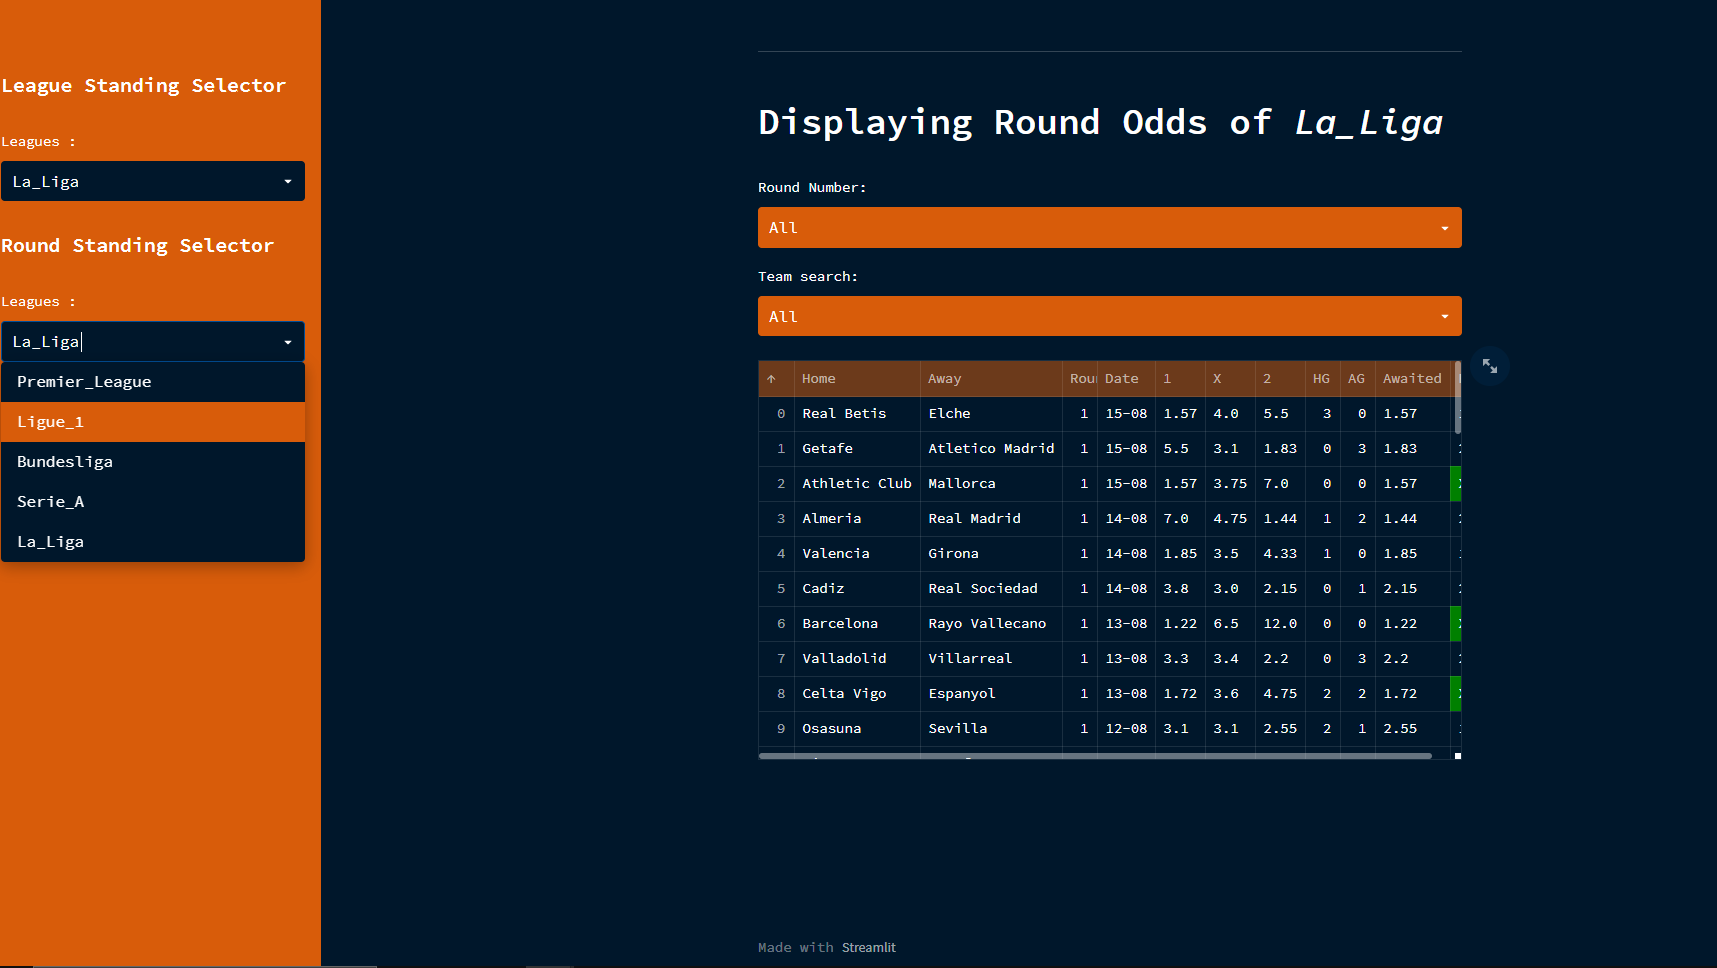
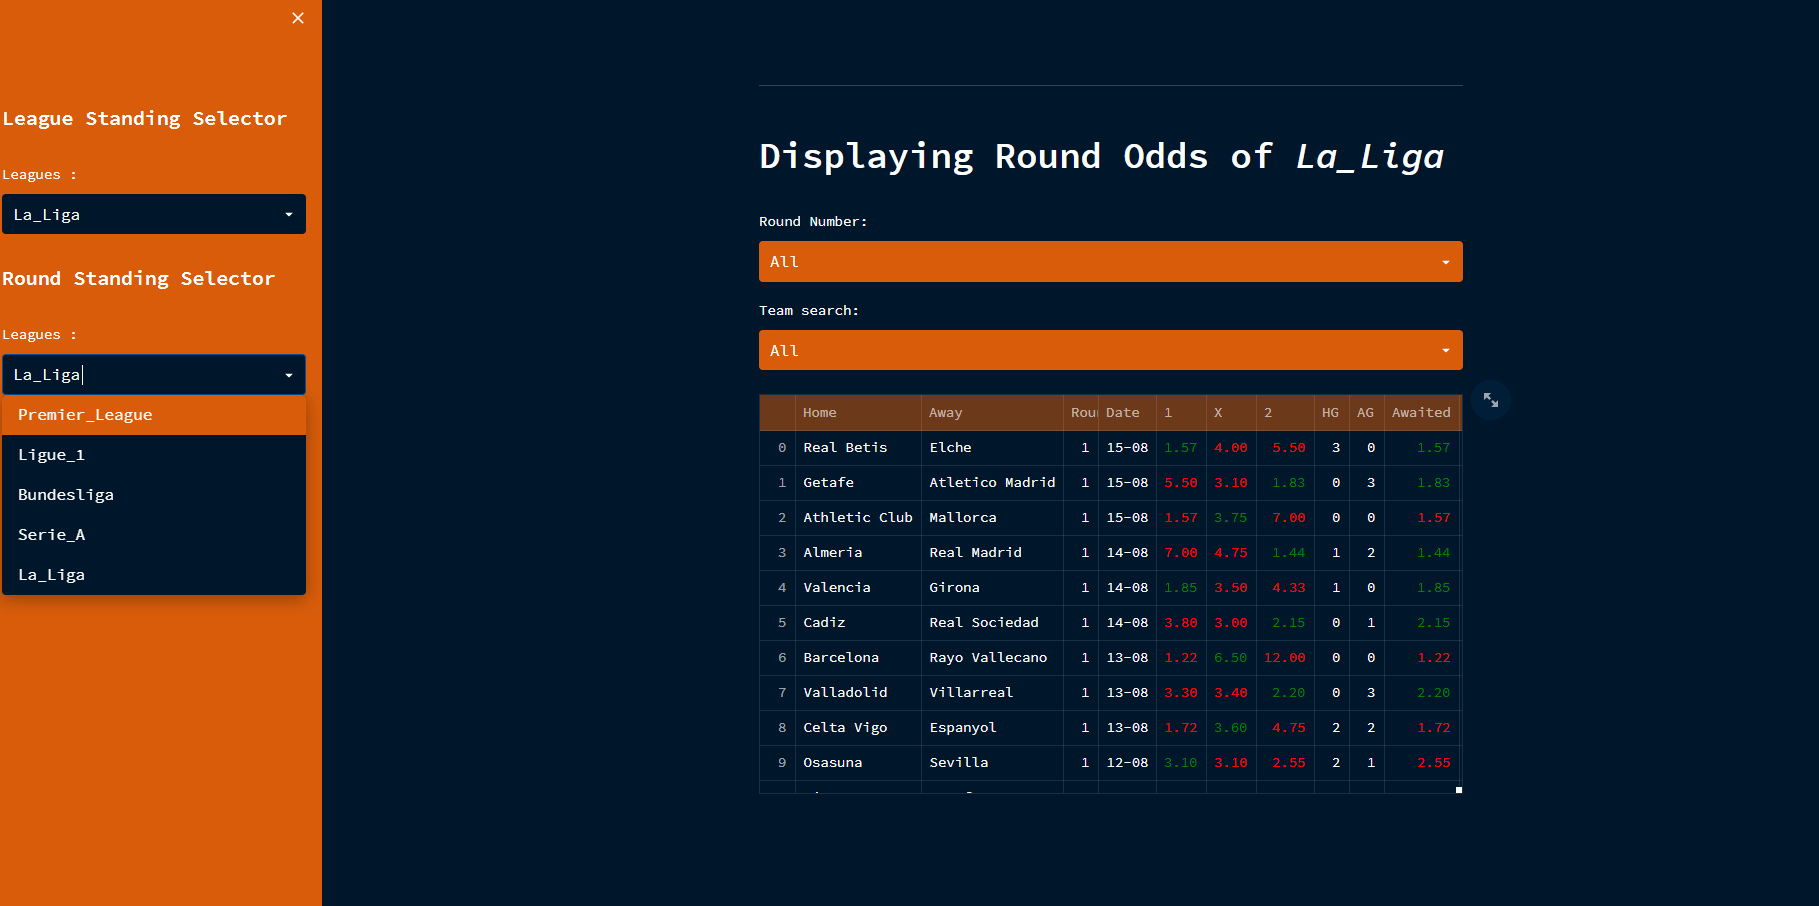
Odds styled
Red marker for lose odds and green for the winning ones

diff --git a/app.py b/app.py
@@ -1,4 +1,3 @@
-from operator import index
 import pandas as pd
 import streamlit as st
 from datetime import date
@@ -59,10 +58,23 @@ if round != 'All':
 teams = pd.read_csv(f'./src/standings/{season}_{comp}_standings.csv', index_col=False)['Name']
 team = st.selectbox('Team search:', list(teams) + ['All'], index=len(teams))
 if team != 'All':
-    odds_data = odds_data.loc[(odds_data['Home']== team) | (odds_data['Away'] == team)]
+    odds_data = odds_data.loc[(odds_data['Home'] == team) | (odds_data['Away'] == team)]
+
+def show_results(row: object) -> list :
+    text = []
+    idx = {'1': 0, 'X': 1, '2': 2}
+    for item in row:
+        if isinstance(item,float):
+            text.append('color: red')
+        else:
+            text.append('')
+    text[idx[row['Final']]] = 'color: green'
+    text[-2] = 'color: green' if row['Awaited'] == row[row['Final']] else 'color: red'
+    return text
 
 odds_data_styled = odds_data.style\
     .format(precision= 2)\
-    .highlight_max(subset=odds_data.columns[4:-1], color="cyan")\
+    .apply(show_results, subset=odds_data.columns[4:], axis=1)\
+    .highlight_max(subset=odds_data.columns[4:-1], color='blue')
 
 st.dataframe(odds_data_styled)
